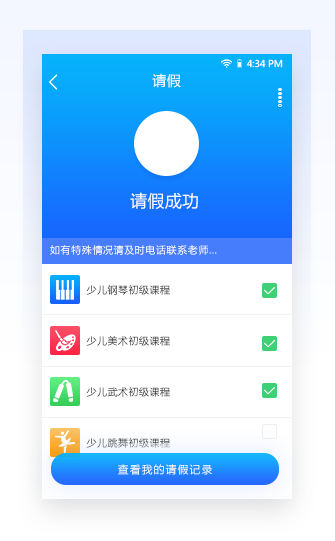
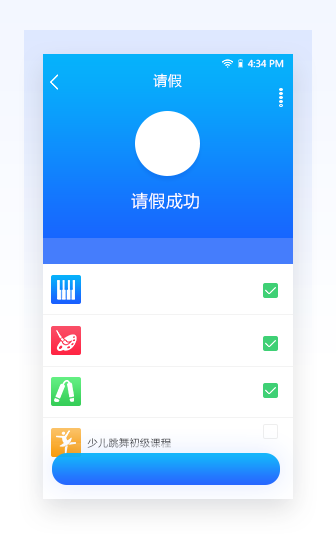
小盼

diff --git a/WebContent/html/smallHope/css/educate.css b/WebContent/html/smallHope/css/educate.css
@@ -337,6 +337,29 @@ left: 0;
 
     100% {width: 60px;}
 }
+.a-ed-leave-right .text1{
+    position: absolute;
+    top:241px;left:48px;font-size: 10px;color:#fff;
+}
+
+.a-ed-leave-right .text2{
+    position: absolute;
+    top:280px;left:87px;font-size: 10px;color:#333;
+}
+
+.a-ed-leave-right .text3{
+    position: absolute;
+    top:333px;left:87px;font-size: 10px;color:#333;
+}
+.a-ed-leave-right .text4{
+    position: absolute;
+    top:384px;left:87px;font-size: 10px;color:#333;
+}
+.a-ed-leave-right .text5{
+    position: absolute;
+    bottom:65px;left:120px;font-size: 10px;color:#fff;
+}
+
 .act_tick{
     width:50px;height:50px; background: red; position: absolute;top:120px;right:140px;border-radius: 10px;
 }
@@ -382,11 +405,12 @@ padding-top:95px; float: left; position: relative;
     position: absolute;left:542px;top:305px;
 
 }
-.a-ed-work-act .iconfont{
+.a-ed-work-act  .gou{
     animation:mypoint 2s;
-    -moz-animation:mypoint 2s;/*Firefox */
+    -moz-animation:mypoint 2s;
     -webkit-animation:mypoint 2s;
-    -o-animation:mypoint 2s; display: none;
+    -o-animation:mypoint 2s;
+    display: none ;
 }
 
 .a-ed-work-act .icon1{
@@ -532,6 +556,17 @@ padding-top:95px; float: left; position: relative;
  .a-ed-more-rowSec .a-ed-more-list{
     width:90px; padding-top:80px; position: relative;
     float:left;font-size: 16px; margin-bottom: 3px;height:77px;margin-left:120px;
+}
+.a-ed-more-list{
+    width:90px; padding-top:62px; position: relative;
+    float:left;font-size: 16px; margin-bottom: 3px;height:77px;margin-left:120px;
+}
+.a-ed-index-row{
+    margin-left:200px;
+}
+.a-ed-index-row  .a-ed-more-list{
+    width:90px; padding-top:62px; position: relative;
+    float:left;font-size: 16px; margin-bottom: 3px;height:77px;margin-left:50px;
 }
  .a-ed-more-list:first-child{
     margin-left:0px;
